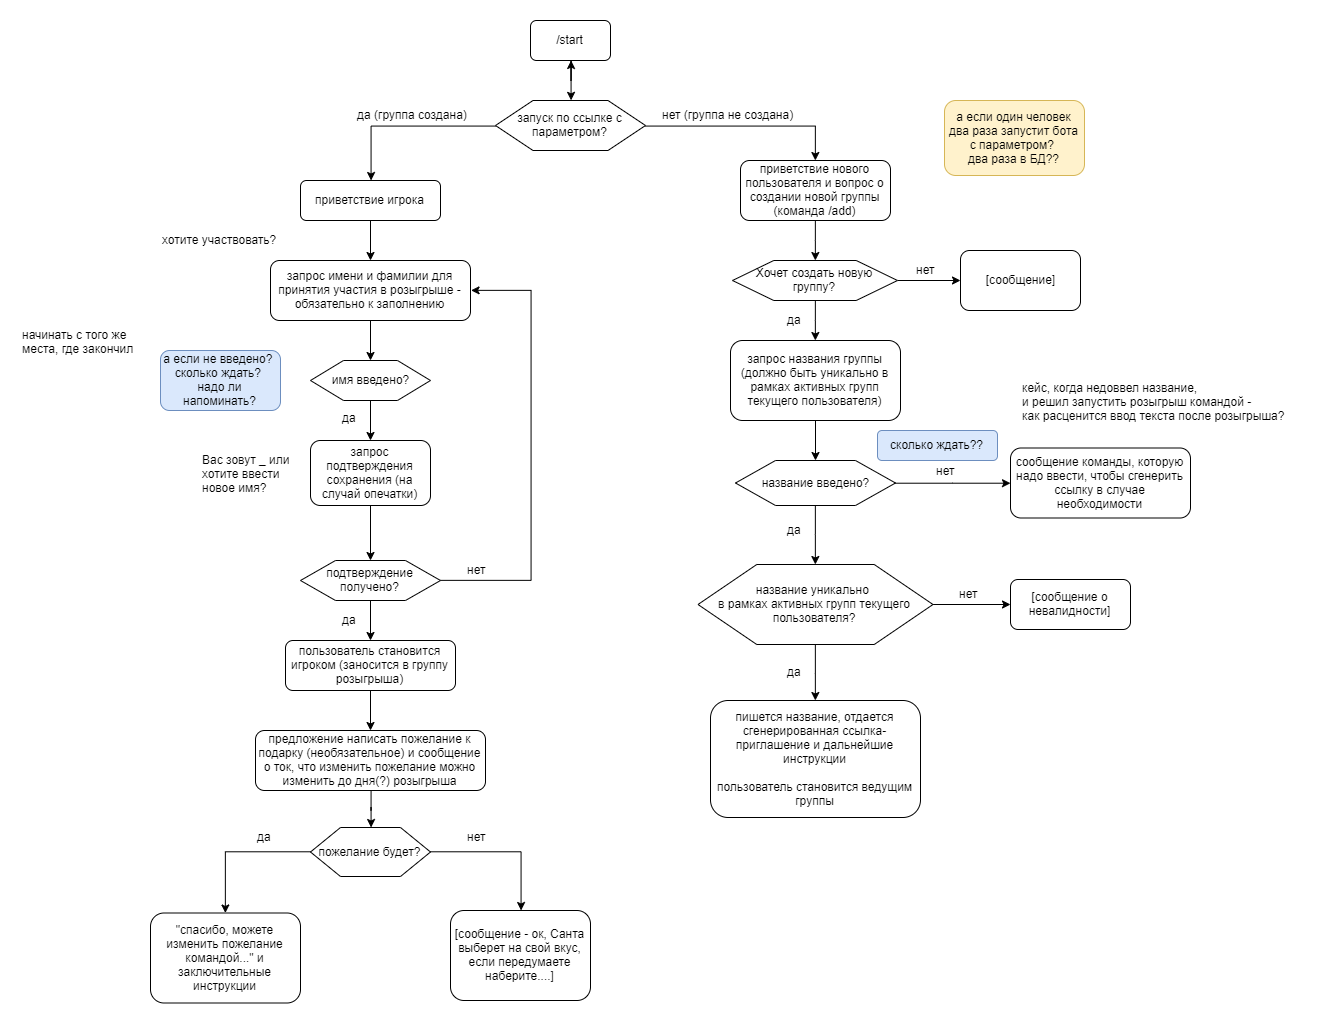
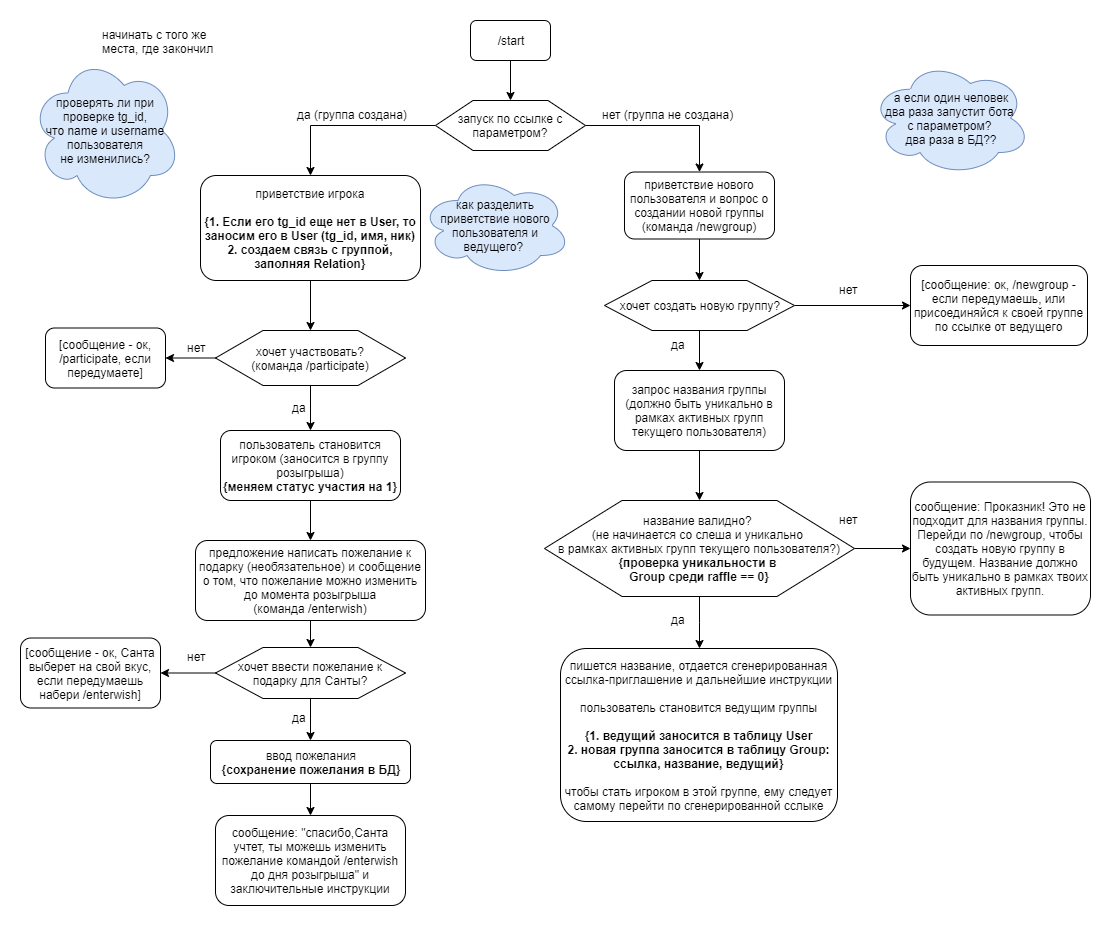
+ подключение БД, добавление в нее пользователей и групп

diff --git a/bot.py b/bot.py
@@ -3,6 +3,7 @@
 # import config
 import os
 import telebot
+import sqlite3
 import re
 from idlelib import query
 from datetime import datetime
@@ -11,66 +12,195 @@ from telebot import (apihelper, types)
 from settings import *
 
 
-
 apihelper.proxy = {'https': socks5}
 bot = telebot.TeleBot(token)
-print("сервер работает...")
+print('сервер работает...')
 user = bot.get_me()
-
 
 @bot.message_handler(commands=['start'])
 def send_welcome(message):
     if message.chat.type == 'private':
         start_param = message.text.split()
         if len(start_param) == 1:
-            print("нет параметра запуска")
-            bot.send_message(message.chat.id, "Привет! Я Санта-бот, помогу провести новогодний розыгрыш подарков в вашей компании!")
+            print('нет параметра запуска')
+            bot.send_message(message.chat.id, text='Привет! Я Санта-бот, помогу провести новогодний '
+                                                   'розыгрыш подарков в вашей компании!')
             keyboard = types.InlineKeyboardMarkup(row_width=2)  # наша клавиатура шириной в 2 кнопи в ряду
-            key_yes = types.InlineKeyboardButton(text='Да', callback_data='yes')  # кнопка «Да»
-            key_no = types.InlineKeyboardButton(text='Нет', callback_data='no')
+            key_yes = types.InlineKeyboardButton(text='Да', callback_data='yes_group')
+            key_no = types.InlineKeyboardButton(text='Нет', callback_data='no_group')
             keyboard.add(key_yes, key_no)  # добавляем кнопки в клавиатуру в один ряд
             # keyboard.add(key_no) # добавлять по одной кнопке в ряд
-            question = "Хочешь создать новую группу для розыгрыша?"
+            question = 'Хочешь создать новую группу для розыгрыша?'
             bot.send_message(message.from_user.id, text=question, reply_markup=keyboard)
             # bot.register_next_step_handler(message, new_group)
         else:
-            print("есть параметр запуска")
-            bot.send_message(message.chat.id, "Привет! Я Санта-бот и ты пришел ко мне по приглашению! Для твоего подарка уже есть место под ёлкой!")
-            keyboard = types.InlineKeyboardMarkup(row_width=2)
-            key_yes = types.InlineKeyboardButton(text='Да', callback_data='yes1')
-            key_no = types.InlineKeyboardButton(text='Нет', callback_data='no1')
-            keyboard.add(key_yes, key_no)
-            question = "Готов принять участие в розыгрыше?"
-            bot.send_message(message.from_user.id, text=question, reply_markup=keyboard)
+            print('есть параметр запуска:')
+            print(start_param[1])
+            # проверяем, что такая группа есть в БД и она активна (розыгрыша не было)
+            # устанавливаем соединение с БД (объект соединения) - не закрываю нигде
+            conn = sqlite3.connect("santa.db")
+            # создаем объект Cursor для работы с его методом execute()
+            curs = conn.cursor()
+            # создаем связь с группой, если она существует иначе ссылка недействительна
+            curs.execute('SELECT * FROM Groups WHERE link=:link', {'link': start_param[1]})
+            group_exists = curs.fetchall()
+            print(f'есть группа: {group_exists}')
+            print(f'статус розыгрыша: raffle = {group_exists[0][3]}')
+            print(f'количество групп: {len(group_exists)}')
+
+            # проверяем, что raffle (group_exists[0][3]) равно 0 (розыгрыша не было)
+            if len(group_exists) == 1 and group_exists[0][3] == 0:
+                # если пользователя нет в БД, заносим его туда
+                conn = sqlite3.connect("santa.db")
+                curs = conn.cursor()
+                curs.execute('SELECT * FROM Users WHERE tg_id=:tg_id', {'tg_id': message.chat.id})
+                user_exists = curs.fetchall()
+                print(f'есть пользователь: {user_exists}')
+                print(f'количество пользователей: {len(user_exists)}')
+
+                # если пользователя нет в БД, заносим его туда
+                if len(user_exists) == 0:
+                    curs.execute('INSERT INTO Users(tg_id, username, first_name, last_name, current_group) '
+                                 'VALUES (:tg_id, :username, :first_name, :last_name, :current_group)',
+                                 {'tg_id': message.chat.id, 'username': message.chat.username,
+                                  'first_name': message.chat.first_name, 'last_name': message.chat.last_name,
+                                  'current_group': start_param[1]})
+                # ??? else - НАДО ЛИ ИНАЧЕ ДЕЛАТЬ UPDATE НА СЛУЧАЙ ТОГО, ЧТО ПОЛЬЗОВАТЕЛЬ МЕНЯЛ СВОИ ДАННЫЕ (ИМЯ, ФАМИЛИЮ, USERNAME)
+                # или зашел по другой ссылке?
+                else:
+                    curs.execute('UPDATE Users SET username=:username, first_name=:first_name, last_name=:last_name, current_group=:current_group '
+                                 'WHERE tg_id=:tg_id', {'username': message.chat.username,
+                                  'first_name': message.chat.first_name, 'last_name': message.chat.last_name,
+                                  'current_group': start_param[1], 'tg_id': message.chat.id})
+
+                # узнаем id пользователя в БД
+                curs.execute('SELECT id FROM Users WHERE tg_id=:tg_id', {'tg_id': message.chat.id})
+                user_id = curs.fetchall()
+                print(f'user_id = {user_id[0][0]}')
+                print(f'group_id = {group_exists[0][0]}')
+
+                # устанавливаем связь пользователя и группы, ECЛИ ЕЁ ЕЩЁ НЕТ (пользователь перешел по ссылке впервые)
+                curs.execute('SELECT * FROM Relations_user_group WHERE user_id=:user_id AND group_id=:group_id',
+                             {'user_id': user_id[0][0], 'group_id': group_exists[0][0]})
+                relation_exists = curs.fetchall()
+                print(f'есть связь: {relation_exists}')
+                if len(relation_exists) == 0:
+                    curs.execute('INSERT INTO Relations_user_group(user_id, group_id) '
+                                 'VALUES (:user_id, :group_id)',
+                                 {'user_id': user_id[0][0], 'group_id': group_exists[0][0]})
+                conn.commit()
+                curs.close()
+
+                bot.send_message(message.chat.id, text='Привет! Я Санта-бот и ты пришел ко мне по приглашению! '
+                                                       'Для твоего подарка уже есть место под ёлкой!')
+
+                # клавиатура
+                keyboard = types.InlineKeyboardMarkup(row_width=2)
+                key_yes = types.InlineKeyboardButton(text='Да', callback_data='yes_part')
+                key_no = types.InlineKeyboardButton(text='Нет', callback_data='no_part')
+                keyboard.add(key_yes, key_no)
+                question = 'Готов принять участие в розыгрыше?'
+                bot.send_message(message.from_user.id, text=question, reply_markup=keyboard)
+            elif len(group_exists) == 1 and group_exists[0][3] == 1:
+                bot.send_message(message.chat.id, text='Розыгрыш в этой группе уже завершен.'
+                                                       'Ты можешь создать новую группу командой /newgroup.')
+            else:
+                bot.send_message(message.chat.id, text='Ссылка запуска недействительна.')
+            # сохраняем изменения
+            conn.commit()
+            # закрываем соединение cursor
+            curs.close()
+
     else:
-        bot.send_message(message.chat.id, "пиши привет в приват")
-    log(message)
+        bot.send_message(message.chat.id, 'Упс. Санта-бот работает только в режиме тет-а-тет.')
+    logmess(message)
 
 
 @bot.callback_query_handler(func=lambda call: True)
 def callback_worker(call):
-    if call.data == 'yes': #call.data это callback_data, которую мы указали при объявлении кнопки
-        bot.send_message(call.message.chat.id, text="(будет запрос названия и генерация ссылки)")
-        bot.edit_message_reply_markup(call.message.chat.id, call.message.message_id, reply_markup=None) # скрывает клаву после выбора
+    if call.data == 'yes_group':
+        # скрываем клаву после выбора
+        bot.edit_message_reply_markup(call.message.chat.id, call.message.message_id, reply_markup=None)
+        get_group_name(call.message)
         # код сохранения данных, или их обработки
-    elif call.data == 'no':
-        bot.send_message(call.message.chat.id, "ок. присоединись к своей группе по ссылке от ведущего")
-        bot.edit_message_reply_markup(call.message.chat.id, call.message.message_id, reply_markup=None) # скрывает клаву после выбора
-    elif call.data == 'yes1':
-        bot.send_message(call.message.chat.id, "(потом спрошу у тебя имя)")
+    elif call.data == 'no_group':
+        bot.send_message(call.message.chat.id, text='ок. /newgroup если передумаешь или присоединяйся '
+                                                    'к своей группе по ссылке от ведущего')
         bot.edit_message_reply_markup(call.message.chat.id, call.message.message_id, reply_markup=None)
-    elif call.data == 'no1':
-        bot.send_message(call.message.chat.id, "Если передумаешь, набери команду /participate")
+    elif call.data == 'yes_part':
+        # меняем статус участия на 1
+        conn = sqlite3.connect("santa.db")
+        curs = conn.cursor()
+
+        print('---------------')
+        # вспоминаем id пользователя в БД
+        curs.execute('SELECT id, current_group FROM Users WHERE tg_id=:tg_id', {'tg_id': call.message.chat.id})
+        current_user = curs.fetchall()
+        print(current_user)
+        print(f'user_id = {current_user[0][0]}')
+        print(f'group_link = {current_user[0][1]}')
+        # вспоминаем id группы, в которую пришёл пользователь
+        curs.execute('SELECT id FROM Groups WHERE link=:link', {'link': current_user[0][1]})
+        group_id = curs.fetchall()
+        print(group_id[0][0])
+        print('-----------------')
+
+        # меняем статус участия на 1 в таблице связей
+        curs.execute('UPDATE Relations_user_group SET participation=:participation '
+                     'WHERE user_id=:user_id AND group_id=:group_id', {'participation': 1,
+                                                                       'user_id': current_user[0][0], 'group_id': group_id[0][0]})
+        conn.commit()
+        curs.close()
+        bot.send_message(call.message.chat.id, text='(потом спрошу у тебя пожелание)')
         bot.edit_message_reply_markup(call.message.chat.id, call.message.message_id, reply_markup=None)
+
+    elif call.data == 'no_part':
+        bot.send_message(call.message.chat.id, text='Если передумаешь, набери команду /participate.')
+        bot.edit_message_reply_markup(call.message.chat.id, call.message.message_id, reply_markup=None)
+    logcall(call)
+
+
+def get_group_name(message): # получаем название группы
+    bot.send_message(message.chat.id, text='Напиши название группы и я пришлю тебе ссылку-приглашение. '
+                                           'Название не должно начинаться со слеша.')
+    bot.register_next_step_handler(message, link_generation)
+    logmess(message)
+
+def link_generation(message):  # генерируем ссылку после получения названия
+    print(message.text[0])
+    # проверяем, что введено название, а не команда
+    if message.text[0] == '/':
+        bot.send_message(message.chat.id, text='Проказник! Это не подходит для названия группы. '
+                                               'Перейди по /newgroup, чтобы создать новую группу в будущем.'
+                                               'Название должно быть уникально в рамках твоих активных групп.')
+    else:
+        # генерация ссылки тут
+        # всех в БД! юзер-ведущий,  название группы, сгенеренная ссылка,
+        bot.send_message(message.chat.id, text=f'Годится-ягодица! Группа "{message.text}" создана! '
+                                               f'Вот ссылка-приглашение на участие для твоих друзей: '
+                                               f'[https://telegram.me/shanta_bot?start=olololo]. '
+                                               f'Если хочешь участвовать сам, перейди по ней и следуй '
+                                               f'дальнейшим инструкциям. После регистрации всех желающих '
+                                               f'ты можешь запустить розыгрыш командой /rungame.')
+        # bot.send_message(message.chat.id, text='Будь любезен, для участия в этом розыгрыше перейди на /participate')
+        # далее логика регистрации на участие
+    logmess(message)
 
 
 @bot.message_handler(commands=['help'])
 def send_welcome(message):
     if message.chat.type == 'private':
-        bot.send_message(message.chat.id, "Помоги себе сам, я пишу другой функционал")
+        bot.send_message(message.chat.id, text='/start - запустить бота\n'
+                                               '/help - получить помощь\n'
+                                               '/newgroup - создать новую группу для розыгрыша (*)\n'
+                                               '/participate - принять участие в розыгрыше (*)\n'
+                                               '/leaveroup - выйти из розыгрыша (*)\n'
+                                               '/enterwish - ввести или редактировать пожелание (*)\n'
+                                               '/rungame - запустить розыгрыш (для ведущего) (*)')
     else:
-        bot.send_message(message.chat.id, "пиши привет в приват")
-    log(message)
+        bot.send_message(message.chat.id, text='Упс. Санта-бот работает только в режиме тет-а-тет.')
+    logmess(message)
+
 
 # # бот дразнится
 # @bot.message_handler(func=lambda message: True)
@@ -91,16 +221,19 @@ def send_welcome(message):
 #                           message_id=message.message_id + 1)
 
 
-def log(message):
-    print(f"\nmessage: {message}") # можно убрать этот вывод
-    print("\n***")
+def logmess(message):
+    print(f'\nmessage: {message}') # можно убрать этот вывод
+    print('\n***')
     print(datetime.now())
-    print(f"{message.chat.first_name} {message.chat.last_name} "
-          f"({message.chat.username} id={message.chat.id}) пишет:\n{message.text}\n")
+    print(f'{message.chat.first_name} {message.chat.last_name} '
+          f'({message.chat.username} id={message.chat.id}) пишет:\n{message.text}\n')
+
+def logcall(call):
+    print(f'\ncall: {call}')
 
 
-print("точно работает...")
+print('точно работает...')
 if __name__ == '__main__':
     bot.polling(none_stop=True, interval=0, timeout=20) # какое время ожидания ставить, чтобы бот не выключался без сообщений
 
-print("сервер выключен...")
+print('сервер выключен...')
